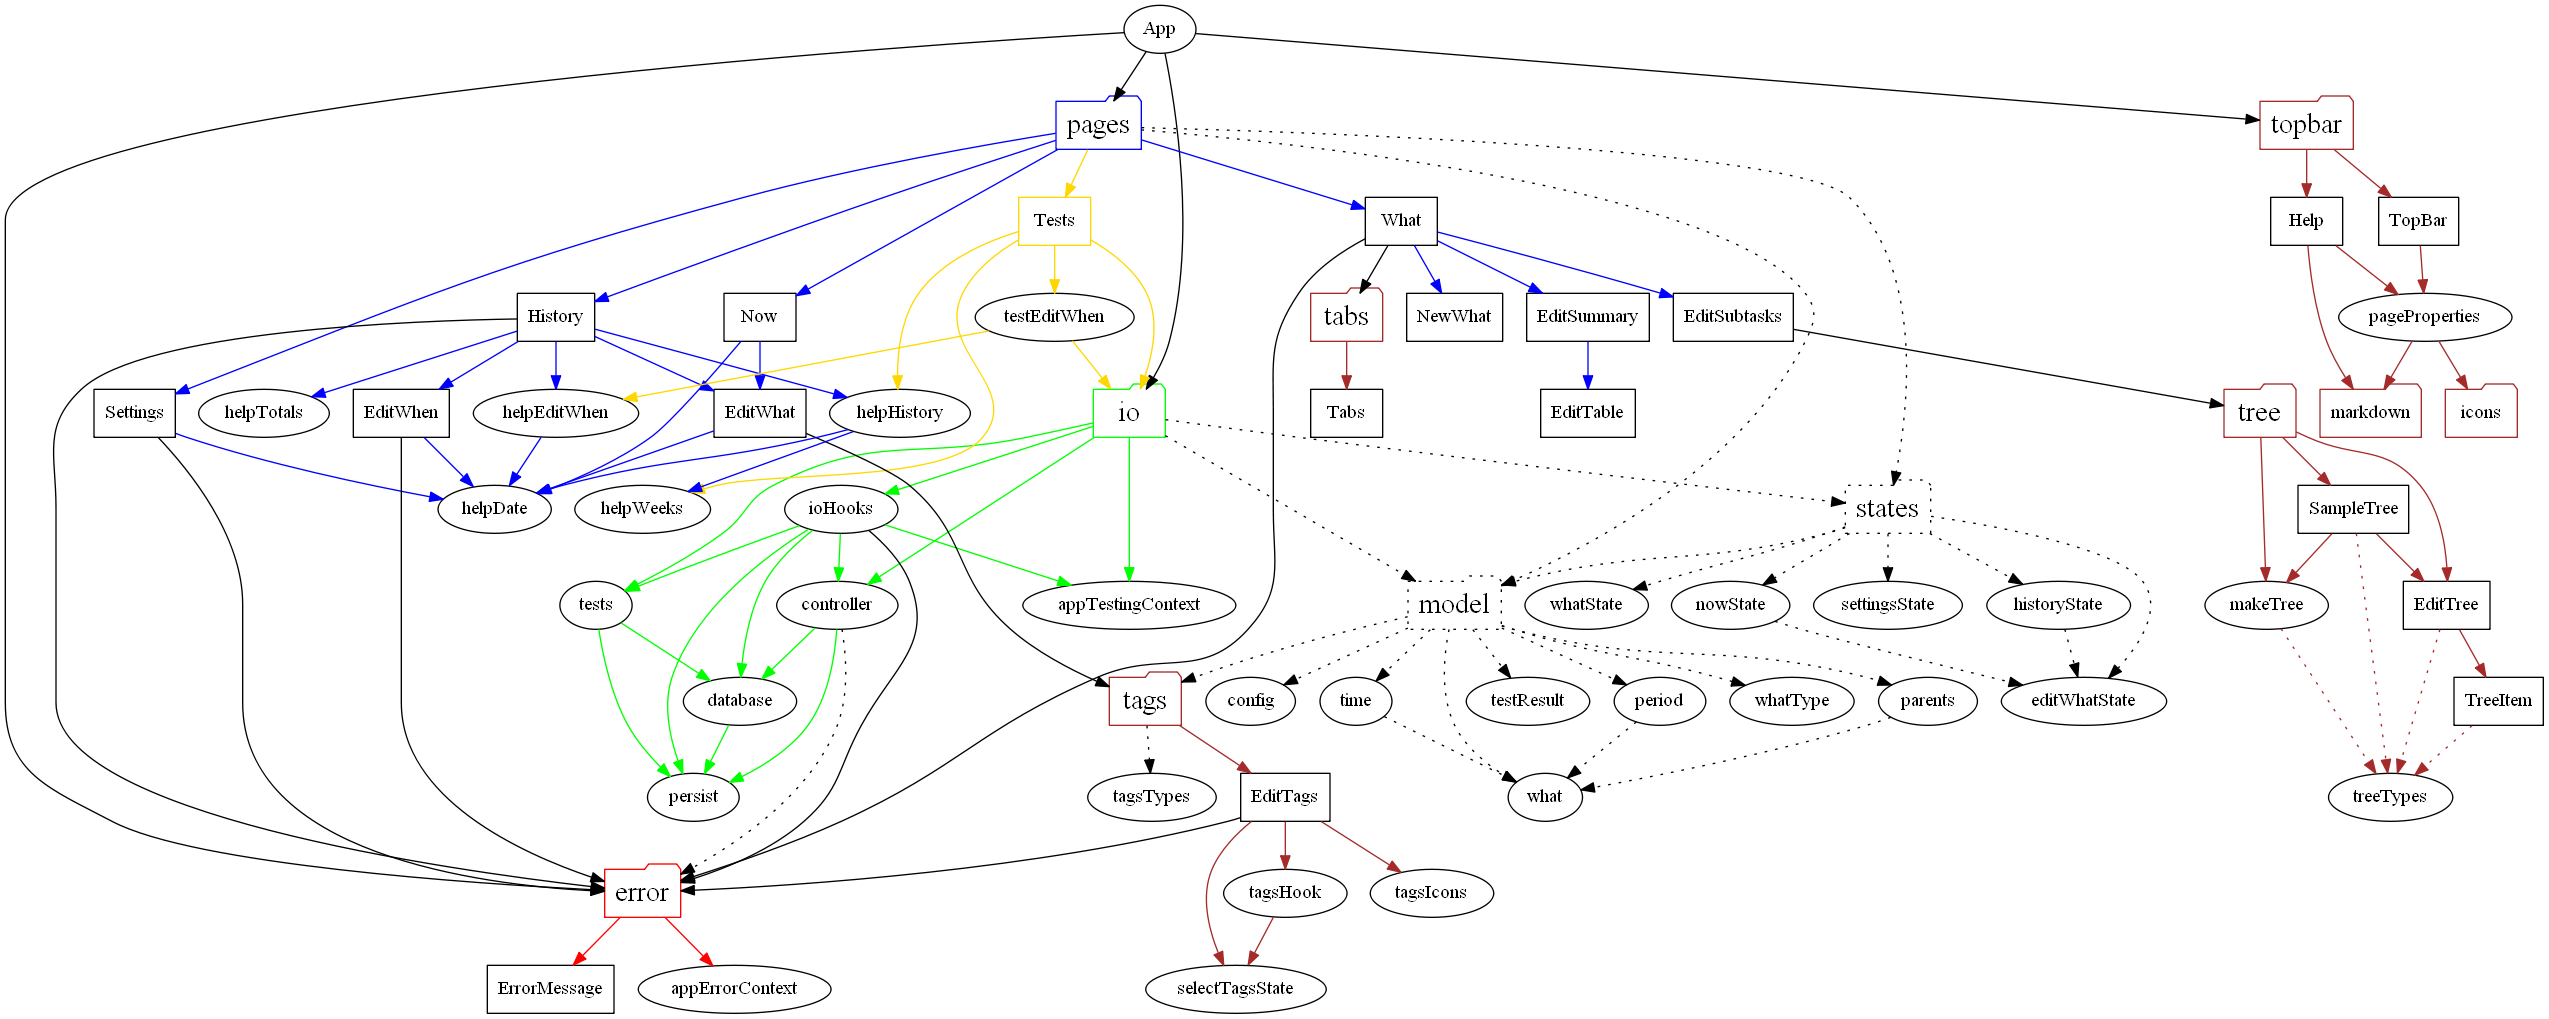
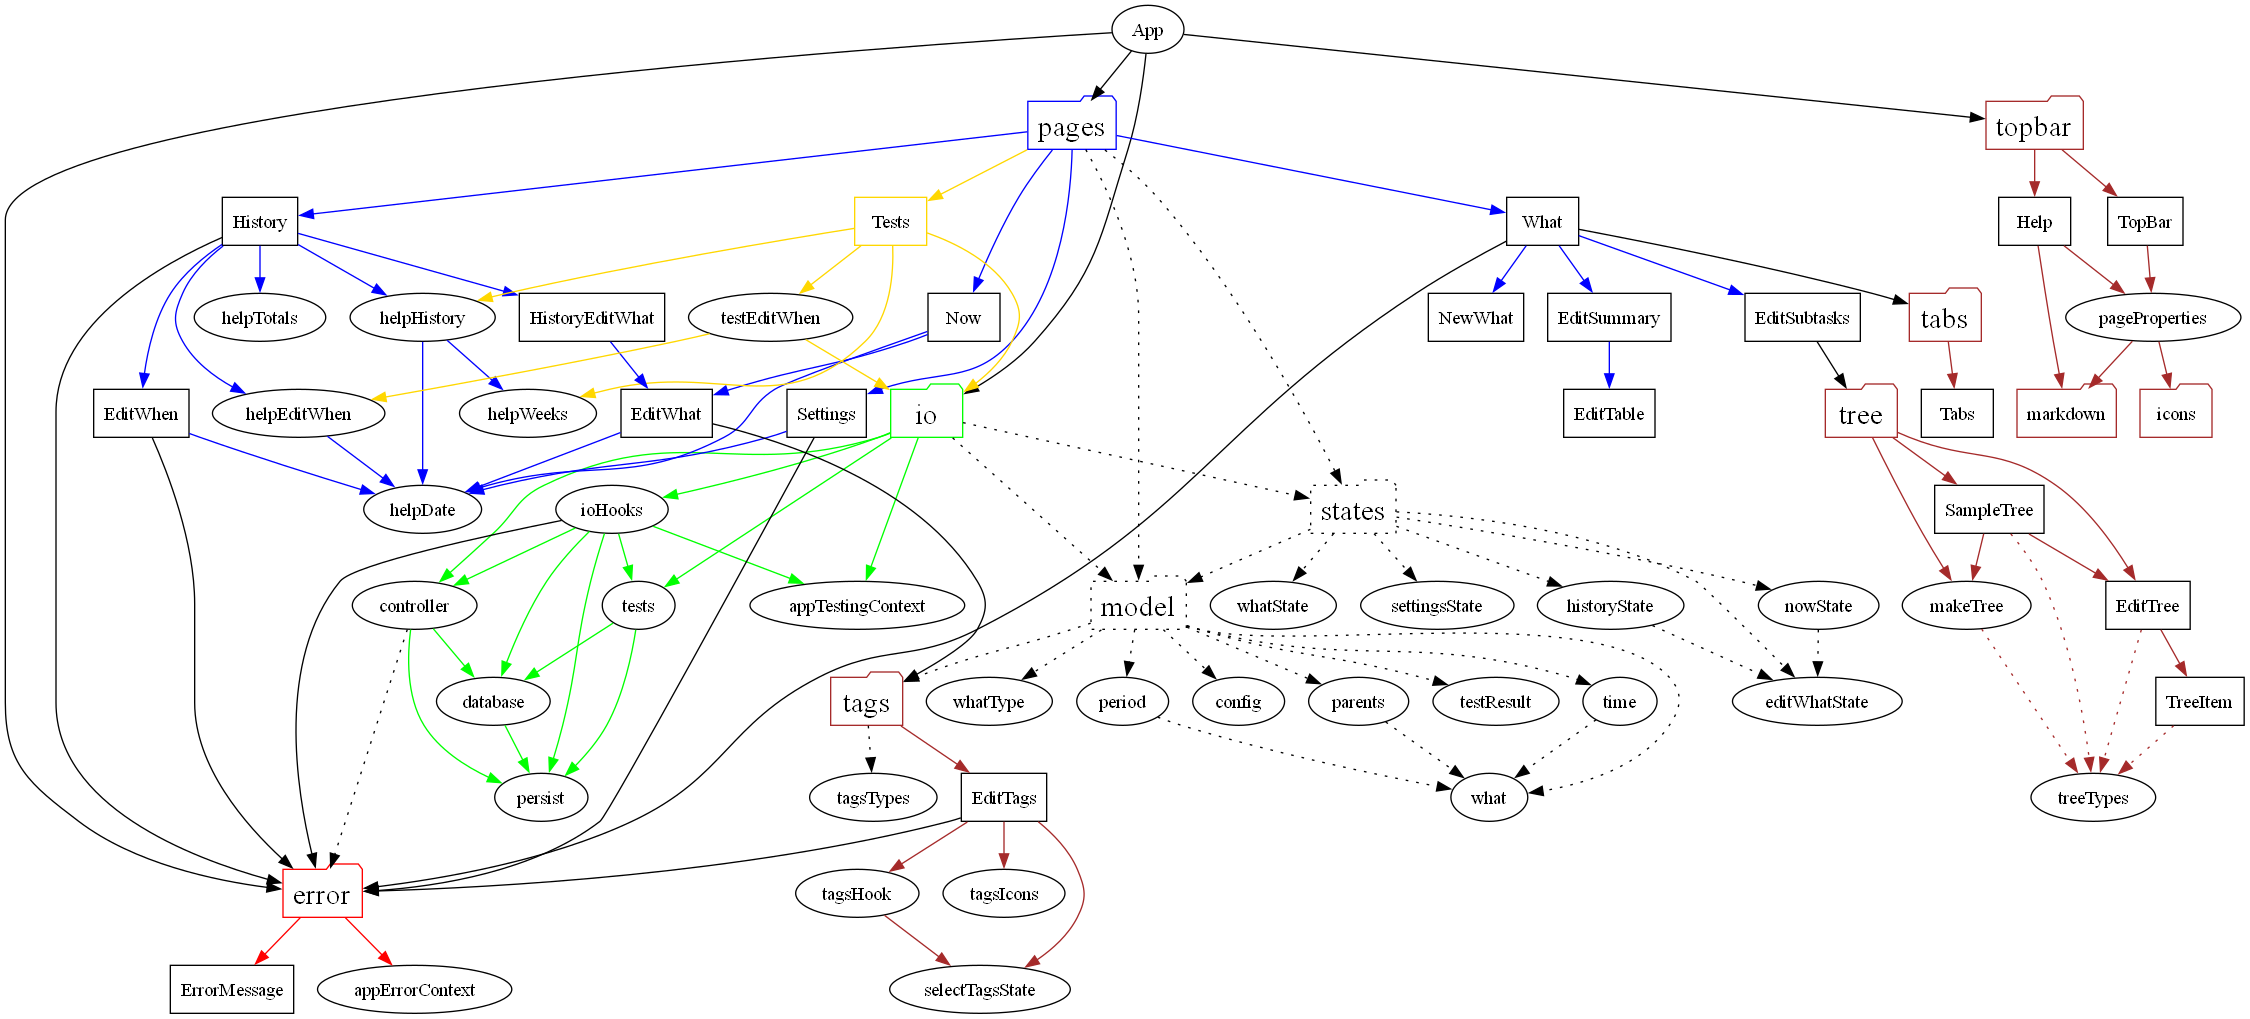
Don't rerender history when editing text

diff --git a/src/pages/History.tsx b/src/pages/History.tsx
@@ -1,16 +1,16 @@
-import './history.sass';
+import "./history.sass";
 
-import React from 'react';
+import React from "react";
 
-import { useSetError } from '../error';
-import { EditWhat, WhatIsValid } from './EditWhat';
-import { EditWhen, WhenIsValid } from './EditWhen';
-import { helpEditWhen } from './helpEditWhen';
-import { aggregate } from './helpHistory';
-import { AllTotals, getAllTotals, Total } from './helpTotals';
+import { useSetError } from "../error";
+import { EditWhen, WhenIsValid } from "./EditWhen";
+import { helpEditWhen } from "./helpEditWhen";
+import { aggregate } from "./helpHistory";
+import { AllTotals, getAllTotals, Total } from "./helpTotals";
 
 import type { Period, Time, What } from "../model";
 import type { HistoryState } from "../states";
+import { EditHistoryWhat } from "./EditHistoryWhat";
 type HistoryProps = {
   state: HistoryState;
   task: string | undefined;
@@ -31,8 +31,8 @@ export const History: React.FunctionComponent<HistoryProps> = (props: HistoryPro
   const filter: PeriodFilter | undefined = task
     ? (it: Period) => !!it.task && it.task === task
     : tag
-    ? (it: Period) => !!it.tags && it.tags.some((it2) => it2 === tag)
-    : undefined;
+      ? (it: Period) => !!it.tags && it.tags.some((it2) => it2 === tag)
+      : undefined;
   const filtered = filter ? periods.filter(filter) : periods;
 
   const rows = aggregate(filtered);
@@ -40,11 +40,8 @@ export const History: React.FunctionComponent<HistoryProps> = (props: HistoryPro
   const allTotals = filter ? getAllTotals(filtered, props) : undefined;
 
   const [editingRow, setEditingRow] = React.useState<[TimeOrText, Period] | undefined>(undefined);
-  // unlike Now.tsx this is useState instead of userRef because on edit callback we want to re-render the Save button
-  const [whatIsValid, setWhatIsValid] = React.useState<WhatIsValid>({ what: {}, isValid: false });
-  const [whenIsValid, setWhenIsValid] = React.useState<WhenIsValid>({ when: { start: 0, stop: 0 }, isValid: false });
-  const [showValidationError, setShowValidationError] = React.useState<boolean>(false);
 
+  const [whenIsValid, setWhenIsValid] = React.useState<WhenIsValid>({ when: { start: 0, stop: 0 }, isValid: false });
   const editingPeriod: Period | undefined = editingRow ? editingRow[1] : undefined;
 
   function useOutsideAlerter(ref: React.RefObject<HTMLTableElement>) {
@@ -105,9 +102,7 @@ export const History: React.FunctionComponent<HistoryProps> = (props: HistoryPro
     }
 
     setEditingRow([timeOrText, period!]);
-    setWhatIsValid({ what: period!, isValid: true });
     setWhenIsValid({ when: period!, isValid: true });
-    setShowValidationError(false);
   };
 
   function getText(what: What | undefined): JSX.Element | undefined {
@@ -164,36 +159,6 @@ export const History: React.FunctionComponent<HistoryProps> = (props: HistoryPro
     );
   }
 
-  function getEditText(period: Period): JSX.Element {
-    function onSave(event: React.MouseEvent<HTMLButtonElement>): void {
-      if (!editingPeriod) return;
-      if (!whatIsValid.isValid) {
-        setShowValidationError(true);
-        return;
-      }
-      const what: What = whatIsValid.what;
-      state.editWhat(editingPeriod.stop, what);
-      setEditingRow(undefined);
-    }
-
-    const saveButton = whatsEqual(editingPeriod!, whatIsValid.what) ? undefined : (
-      <button onClick={onSave}>Save</button>
-    );
-    return (
-      <>
-        <div className="table">
-          <EditWhat
-            state={state}
-            showValidationError={showValidationError}
-            what={period}
-            parentCallback={setWhatIsValid}
-          />
-        </div>
-        {saveButton}
-      </>
-    );
-  }
-
   const tableRef = React.createRef<HTMLTableElement>();
   useOutsideAlerter(tableRef);
 
@@ -216,7 +181,17 @@ export const History: React.FunctionComponent<HistoryProps> = (props: HistoryPro
               <>
                 <td>{show.getId()}</td>
                 <td className="time">{formatTime(show.getMinutes())}</td>
-                <td>{getEditText(period!)}</td>
+                <td>
+                  <EditHistoryWhat
+                    state={state}
+                    what={period!}
+                    onSave={(what) => {
+                      if (!editingPeriod) return;
+                      state.editWhat(editingPeriod.stop, what);
+                      setEditingRow(undefined);
+                    }}
+                  />
+                </td>
               </>
             ) : (
               <>
@@ -246,13 +221,6 @@ function formatTime(minutes: number) {
   const hours = Math.floor(minutes / 60);
   const padded = String(minutes % 60).padStart(2, "0");
   return `${hours}:${padded}`;
-}
-
-function whatsEqual(x: What, y: What): boolean {
-  const tagsEquals = !x.tags
-    ? !y.tags
-    : x.tags.length === y.tags?.length && x.tags.every((it, index) => (it = y.tags![index]));
-  return x.note === y.note && x.task === y.task && tagsEquals;
 }
 
 function showAllTotals(allTotals: AllTotals, props: HistoryProps): JSX.Element {

diff --git a/src/pages/EditHistoryWhat.tsx b/src/pages/EditHistoryWhat.tsx
@@ -1,0 +1,46 @@
+import React from "react";
+import { What } from "../model";
+import { EditWhatState } from "../states";
+import { EditWhat, WhatIsValid } from "./EditWhat";
+
+type EditHistoryWhatProps = {
+  state: EditWhatState;
+  what: What;
+  onSave: (what: What) => void;
+};
+
+function whatsEqual(x: What, y: What): boolean {
+  const tagsEquals = !x.tags
+    ? !y.tags
+    : x.tags.length === y.tags?.length && x.tags.every((it, index) => (it = y.tags![index]));
+  return x.note === y.note && x.task === y.task && tagsEquals;
+}
+
+export const EditHistoryWhat: React.FunctionComponent<EditHistoryWhatProps> = (props: EditHistoryWhatProps) => {
+  const { state, what } = props;
+
+  // unlike Now.tsx this is useState instead of userRef because on edit callback we want to re-render the Save button
+  const [whatIsValid, setWhatIsValid] = React.useState<WhatIsValid>({ what, isValid: true });
+  const [showValidationError, setShowValidationError] = React.useState<boolean>(false);
+
+  function onSave(event: React.MouseEvent<HTMLButtonElement>): void {
+    if (!whatIsValid.isValid) {
+      setShowValidationError(true);
+      return;
+    }
+    props.onSave(whatIsValid.what);
+    // const what: What = whatIsValid.what;
+    // state.editWhat(editingPeriod.stop, what);
+    // setEditingRow(undefined);
+  }
+
+  const saveButton = whatsEqual(what, whatIsValid.what) ? undefined : <button onClick={onSave}>Save</button>;
+  return (
+    <>
+      <div className="table">
+        <EditWhat state={state} showValidationError={showValidationError} what={what} parentCallback={setWhatIsValid} />
+      </div>
+      {saveButton}
+    </>
+  );
+};

diff --git a/src/pages/EditWhat.tsx b/src/pages/EditWhat.tsx
@@ -1,7 +1,7 @@
-import React from 'react';
+import React from "react";
 
-import { EditTags, OutputTags, ShowCount } from '../tags';
-import { showDay } from './helpDate';
+import { EditTags, OutputTags, ShowCount } from "../tags";
+import { showDay } from "./helpDate";
 
 import type { What } from "../model";
 import type { EditWhatState } from "../states";

diff --git a/CHANGELOG.md b/CHANGELOG.md
@@ -12,3 +12,4 @@ All notable changes to this project will be documented in this file.
 ### Fixed
 
 - Prevent writing when the previous time is stale, i.e. already edited in another browser window
+- Don't re-render the entire history page when editing text of one item
